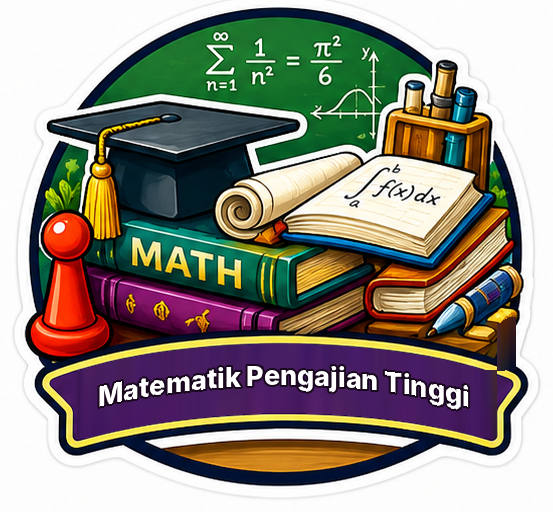
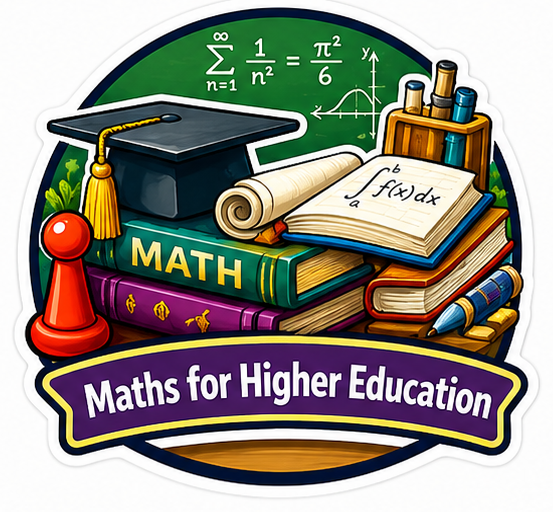
Keep the English topic pictures as the default
Restore the original topic pictures in the app. The Bahasa Melayu
versions move to design/topic_images_bm, outside the bundled assets,
with instructions for switching between the two.

Claude-Session: https://claude.ai/code/session_01LAzZpm9KrijbZiX2k7jJfZ

Changed region(s): [[0.1537, 0.625, 0.953, 0.8438]]

diff --git a/design/topic_images_bm/README.md b/design/topic_images_bm/README.md
@@ -1,0 +1,44 @@
+# Topic pictures in Bahasa Melayu
+
+The app ships with the original topic pictures, whose banners read
+"Maths for Primary Students", "Maths for Secondary Students",
+"Maths for Higher Education" and "Tourism Melaka".
+
+This folder holds the same four pictures with the banner text in Bahasa
+Melayu:
+
+| File | Banner text |
+| --- | --- |
+| `topic_maths_primary.png` | Matematik Sekolah Rendah |
+| `topic_maths_secondary.png` | Matematik Sekolah Menengah |
+| `topic_maths_higher.png` | Matematik Pengajian Tinggi |
+| `topic_tourism_melaka.png` | Pelancongan Melaka |
+
+This folder is not listed under `assets` in `pubspec.yaml`, so these files
+are not packed into the app.
+
+## Switch to the Bahasa Melayu pictures
+
+From the project folder:
+
+```bash
+cp design/topic_images_bm/*.png assets/images/topics/
+```
+
+Then rebuild the app.
+
+## Switch back to the English pictures
+
+```bash
+git checkout -- assets/images/topics/topic_maths_primary.png \
+  assets/images/topics/topic_maths_secondary.png \
+  assets/images/topics/topic_maths_higher.png \
+  assets/images/topics/topic_tourism_melaka.png
+```
+
+That restores the pictures from the last commit, which has the English
+ones. Then rebuild the app.
+
+The file names stay the same either way, so no code changes are needed.
+The topic names in the rest of the app are in Bahasa Melayu regardless of
+which pictures are used.
